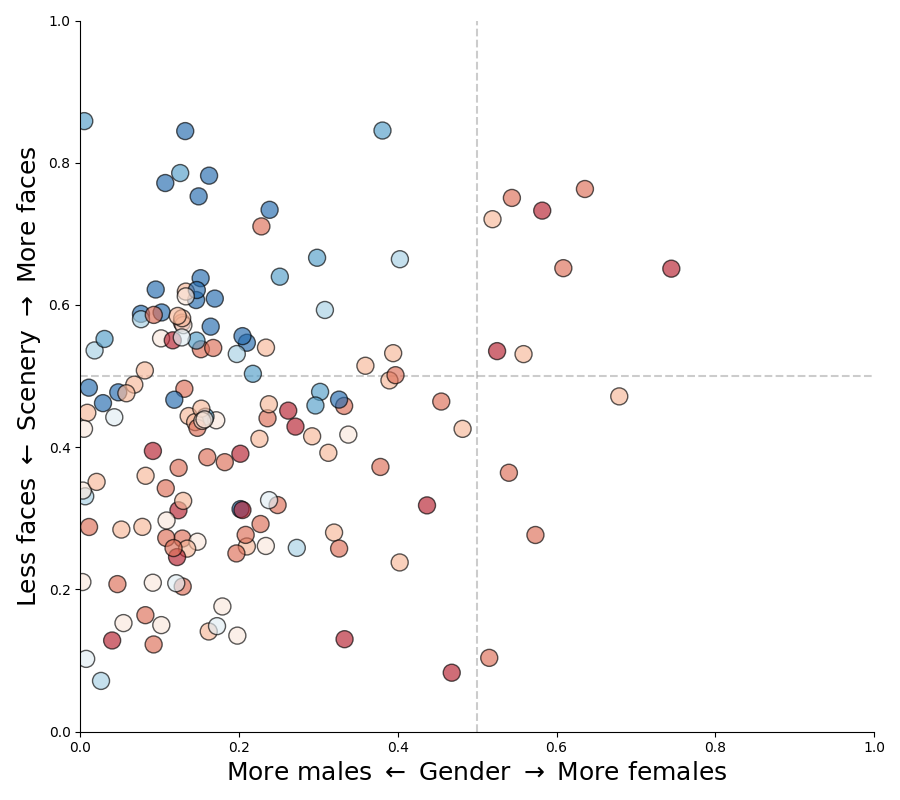
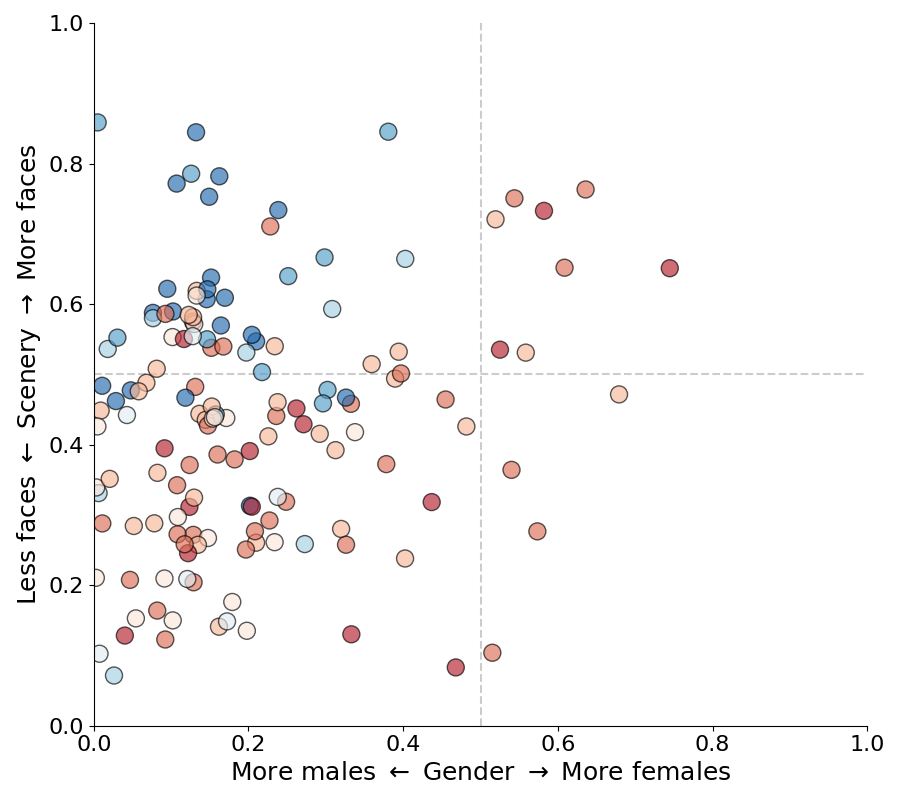
Add new globals

diff --git a/docs/plot_ratio.py b/docs/plot_ratio.py
@@ -57,6 +57,9 @@ plt.xlabel(r"More males $\leftarrow$ Gender $\rightarrow$ More females",
 plt.ylabel(r"Less faces $\leftarrow$ Scenery $\rightarrow$ More faces",
            fontsize=18)
 
+plt.setp(ax.get_xticklabels(), fontsize=16)
+plt.setp(ax.get_yticklabels(), fontsize=16)
+
 X = np.linspace(0,1,100)
 Z = [.5,]*100
 plt.plot(X,Z,'k--',alpha=0.20,zorder=-3)
@@ -75,22 +78,41 @@ S = plt.scatter(df[xkey], df[ykey],
                 s=marker_size, alpha=0.65, zorder=-1,)
 
 plt.savefig("figures/ratio_plot_years.png")
-
 #S.set_sizes(marker_size/4)
 
+def draw_text(y_offset=0, fontsize=12):
+    T = []
+    for x,y,text in zip(df[xkey], df[ykey],df.index):
 
-T = []
-for x,y,text in zip(df[xkey], df[ykey],df.index):
+        # Clip long titles
+        if len(text) > 15:
+            text = text[:15] + '...'
 
-    # Clip long titles
-    if len(text) > 15:
-        text = text[:15] + '...'
+        t = plt.text(x, y+y_offset, text, zorder=-2, fontsize=fontsize)
+        t.set_bbox(dict(facecolor='white', alpha=0.5, edgecolor='white'))
+        T.append(t)
+    return T
 
-    t = plt.text(x, y+0.015, text, zorder=-2)
-    t.set_bbox(dict(facecolor='white', alpha=0.5, edgecolor='white'))
-    T.append(t)
-
-
-
+T = draw_text(y_offset=0.015, fontsize=10)
+plt.tight_layout()
 plt.savefig("figures/ratio_plot_titles.png")
+for t in T: t.remove()
+
+plt.xlim(0, 0.05)
+T = draw_text(y_offset=0.015, fontsize=16)
+plt.tight_layout()
+plt.savefig("figures/ratio_plot_males.png")
+for t in T: t.remove()
+
+
+plt.ylim(.6, 0.8)
+plt.xlim(.5, 0.8)
+T = draw_text(y_offset=0.005, fontsize=16)
+plt.tight_layout()
+plt.savefig("figures/ratio_plot_females.png")
+#for t in T: t.remove()
+
 plt.show()
+
+
+
